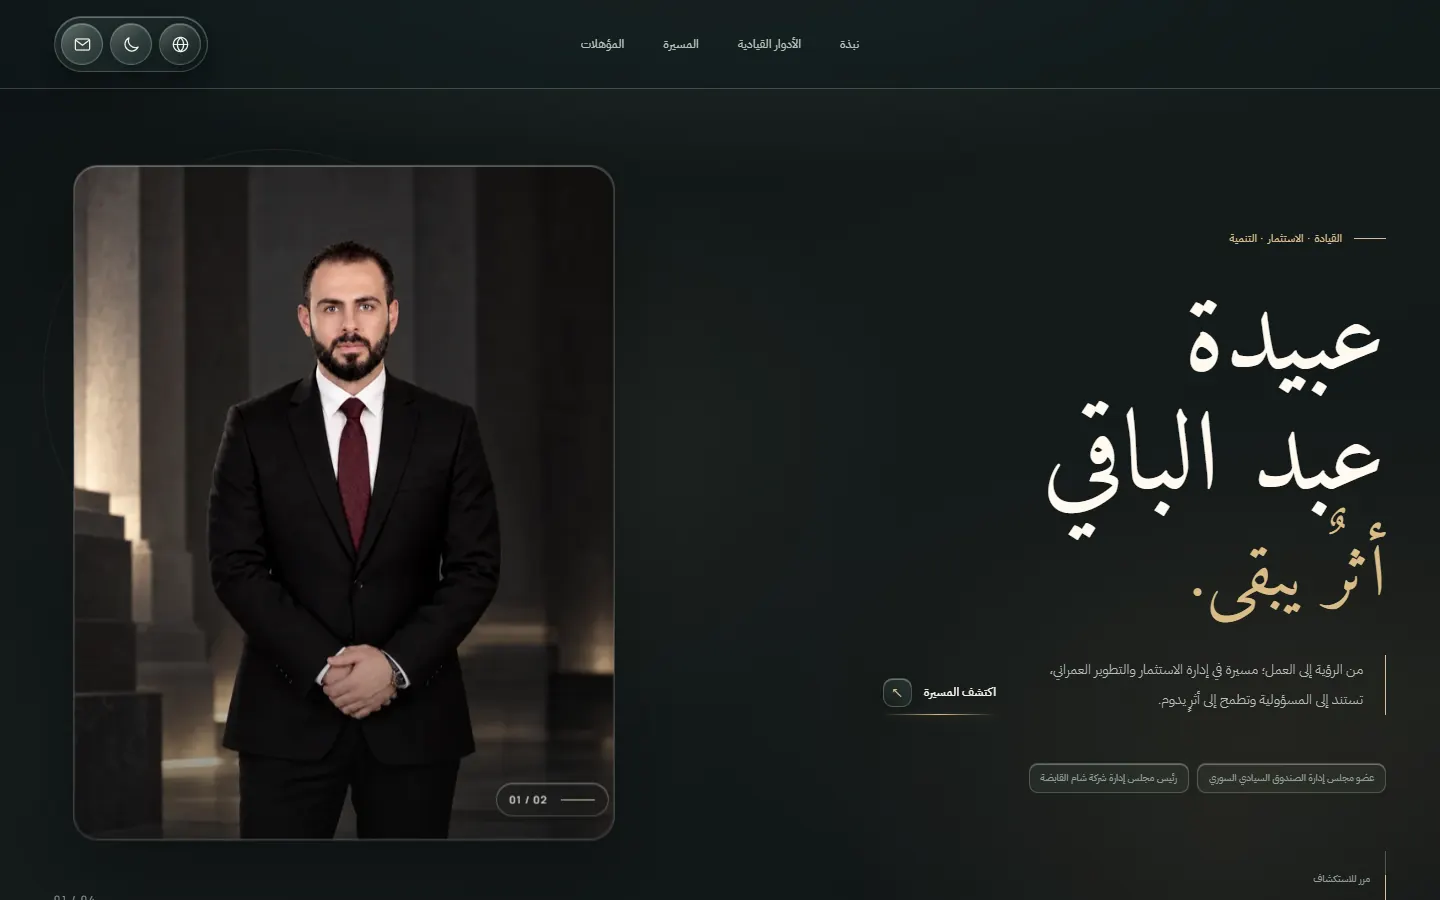
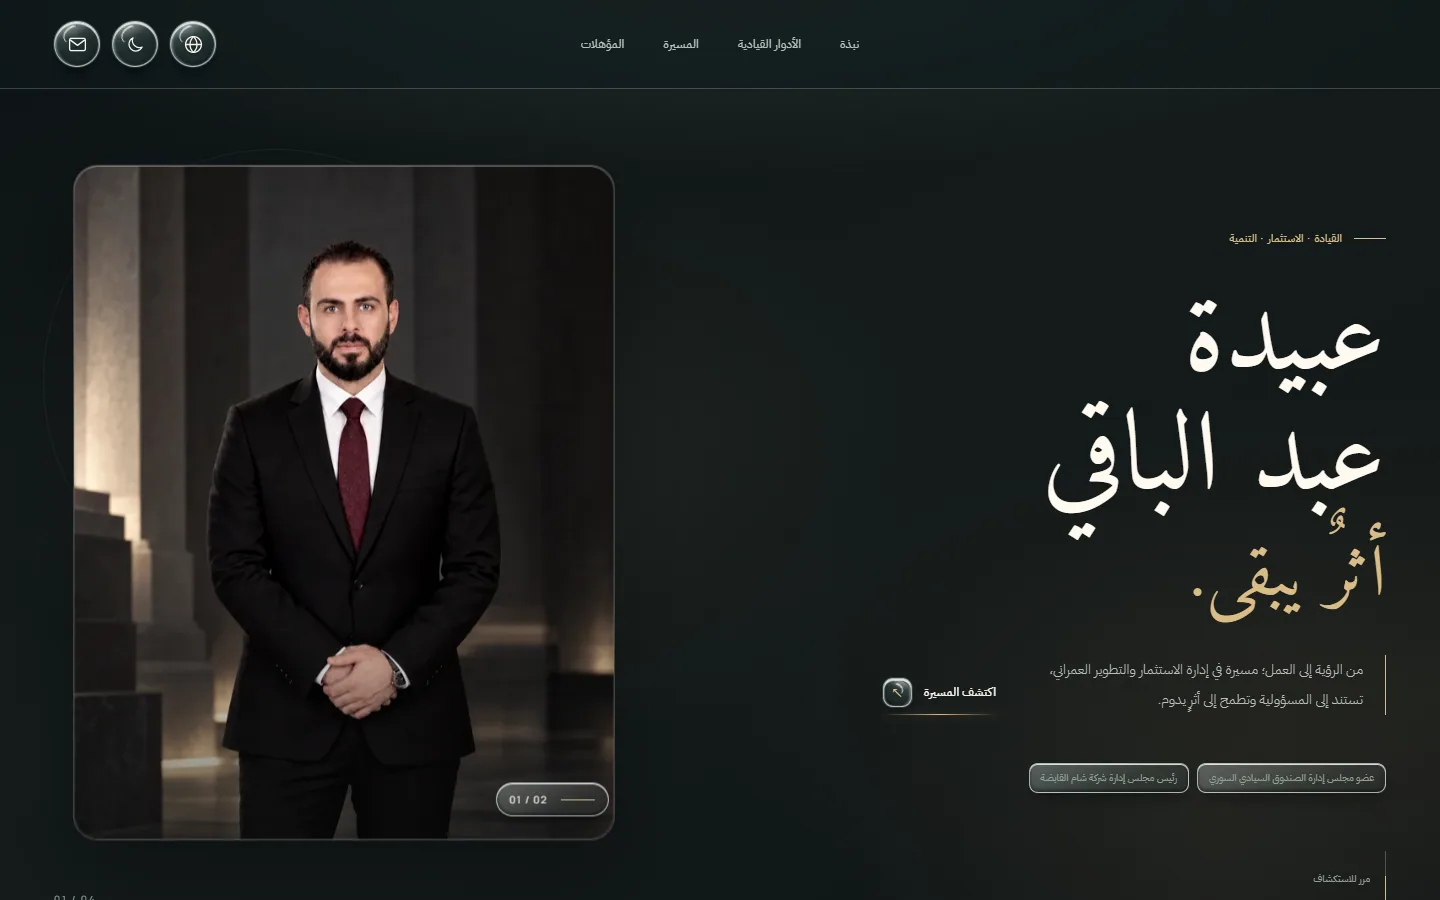
Polish liquid glass controls across site

diff --git a/styles.css b/styles.css
@@ -348,8 +348,8 @@ html[lang="en"] .contact-title em{font-style:italic}
 
 /* Continuous atmosphere and glass surfaces */
 @font-face{font-family:Amiri;src:url("assets/fonts/amiri-arabic-400.woff2") format("woff2");font-style:normal;font-weight:400;font-display:swap}
-:root[data-theme="dark"]{--bg:#0d1214;--bg-elevated:transparent;--bg-soft:transparent;--card:transparent;--card-hover:transparent;--ink:#f5f2e9;--ink-strong:#fffaf1;--muted:#b7bfba;--muted-soft:#91a09a;--gold:#d9bc87;--gold-soft:#f2d8a1;--line:rgba(224,238,232,.16);--line-strong:rgba(224,238,232,.26);--header-glass:rgba(16,23,24,.55);--glass-base:rgba(222,241,232,.055);--glass-strong:rgba(222,241,232,.105);--glass-line:rgba(239,253,246,.2);--glass-bright:rgba(255,255,255,.32);--glass-shadow:rgba(0,0,0,.32)}
-:root[data-theme="light"]{--bg:#efeee9;--bg-elevated:transparent;--bg-soft:transparent;--card:transparent;--card-hover:transparent;--ink:#1b2423;--ink-strong:#0e1716;--muted:#586663;--muted-soft:#70817b;--gold:#876a46;--gold-soft:#ad8b5e;--line:rgba(28,52,47,.14);--line-strong:rgba(28,52,47,.23);--header-glass:rgba(238,242,237,.58);--glass-base:rgba(255,255,255,.42);--glass-strong:rgba(255,255,255,.67);--glass-line:rgba(255,255,255,.78);--glass-bright:rgba(255,255,255,.93);--glass-shadow:rgba(56,70,63,.13)}
+:root[data-theme="dark"]{--bg:#0d1214;--bg-elevated:transparent;--bg-soft:transparent;--card:transparent;--card-hover:transparent;--ink:#f5f2e9;--ink-strong:#fffaf1;--muted:#b7bfba;--muted-soft:#91a09a;--gold:#d9bc87;--gold-soft:#f2d8a1;--line:rgba(224,238,232,.16);--line-strong:rgba(224,238,232,.26);--header-glass:rgba(16,23,24,.55);--glass-base:rgba(222,241,232,.055);--glass-strong:rgba(222,241,232,.105);--glass-line:rgba(239,253,246,.2);--glass-bright:rgba(255,255,255,.32);--glass-shadow:rgba(0,0,0,.32);--liquid-top:rgba(237,251,249,.3);--liquid-base:rgba(192,217,219,.11);--liquid-bottom:rgba(124,152,158,.1);--liquid-rim:rgba(245,255,252,.62);--liquid-glint:rgba(255,255,255,.82);--liquid-edge:rgba(255,255,255,.28);--liquid-inset:rgba(2,10,12,.55);--liquid-outline:rgba(230,247,246,.14);--liquid-shadow:rgba(0,0,0,.58);--liquid-panel-glow:rgba(229,249,246,.13)}
+:root[data-theme="light"]{--bg:#efeee9;--bg-elevated:transparent;--bg-soft:transparent;--card:transparent;--card-hover:transparent;--ink:#1b2423;--ink-strong:#0e1716;--muted:#586663;--muted-soft:#70817b;--gold:#876a46;--gold-soft:#ad8b5e;--line:rgba(28,52,47,.14);--line-strong:rgba(28,52,47,.23);--header-glass:rgba(238,242,237,.58);--glass-base:rgba(255,255,255,.42);--glass-strong:rgba(255,255,255,.67);--glass-line:rgba(255,255,255,.78);--glass-bright:rgba(255,255,255,.93);--glass-shadow:rgba(56,70,63,.13);--liquid-top:rgba(255,255,255,.84);--liquid-base:rgba(226,235,238,.53);--liquid-bottom:rgba(179,194,199,.29);--liquid-rim:rgba(255,255,255,.98);--liquid-glint:#fff;--liquid-edge:rgba(255,255,255,.9);--liquid-inset:rgba(91,112,117,.3);--liquid-outline:rgba(77,97,103,.27);--liquid-shadow:rgba(56,73,77,.32);--liquid-panel-glow:rgba(255,255,255,.55)}
 body{background:var(--bg)}
 body::before,body::after{content:"";position:fixed;inset:0;z-index:0;pointer-events:none}
 body::before{background:radial-gradient(ellipse 75% 36% at 48% -9%,#293434 0%,transparent 80%),radial-gradient(ellipse 65% 43% at 100% 77%,rgba(139,111,68,.105),transparent 80%),linear-gradient(155deg,#0d1214 0%,#141b1b 48%,#101516 100%)}
@@ -363,7 +363,7 @@ body::after{background:radial-gradient(ellipse 75% 38% at 48% -9%,#fffef7 0%,tra
 .section-topline .topline-rule{background:linear-gradient(90deg,var(--line),transparent)}
 html[dir="rtl"] .section-topline .topline-rule{background:linear-gradient(-90deg,var(--line),transparent)}
 
-/* Header: symbols only, with a real frosted dock */
+/* Header: separate liquid-glass controls */
 .site-header{background:var(--header-glass);border-bottom:1px solid var(--glass-line);backdrop-filter:blur(26px) saturate(175%);-webkit-backdrop-filter:blur(26px) saturate(175%)}
 .site-header.scrolled,.site-header.menu-open{background:var(--header-glass);border-bottom-color:var(--glass-line);box-shadow:0 18px 50px var(--glass-shadow)}
 .header-inner{display:grid;grid-template-columns:1fr auto 1fr;min-height:88px}
@@ -374,11 +374,11 @@ html[dir="rtl"] .section-topline .topline-rule{background:linear-gradient(-90deg
 .desktop-nav a::after{left:50%;inset-inline-start:auto;bottom:1px;width:115%;height:2px;transform:translateX(-50%) scaleX(0);transform-origin:center;background:linear-gradient(90deg,transparent 0%,var(--gold-soft) 23%,#fff6d9 50%,var(--gold-soft) 77%,transparent 100%);box-shadow:0 0 6px var(--gold),0 0 18px rgba(236,202,136,.7),0 0 34px rgba(236,202,136,.35);border-radius:5px}
 .desktop-nav a:hover::before,.desktop-nav a.active::before{opacity:1;transform:translateX(-50%) scale(1)}
 .desktop-nav a:hover::after,.desktop-nav a.active::after{transform:translateX(-50%) scaleX(1)}
-.header-actions{justify-self:end;display:flex;align-items:center;gap:7px;padding:6px;border-radius:999px;background:linear-gradient(135deg,var(--glass-strong),var(--glass-base) 55%,transparent);border:1px solid var(--glass-line);box-shadow:inset 0 1px 0 var(--glass-bright),0 15px 35px var(--glass-shadow);backdrop-filter:blur(24px) saturate(190%);-webkit-backdrop-filter:blur(24px) saturate(190%)}
-.utility-button,.header-contact,.menu-button{position:relative;flex:none;width:42px;height:42px;min-height:0;display:grid;place-items:center;border-radius:50%;padding:0;background:linear-gradient(145deg,var(--glass-strong),var(--glass-base) 56%,transparent);border:1px solid var(--glass-line);color:var(--ink);box-shadow:inset 0 1px 0 var(--glass-bright),inset 0 -1px 0 rgba(255,255,255,.07),0 4px 14px var(--glass-shadow);backdrop-filter:blur(18px) saturate(185%);-webkit-backdrop-filter:blur(18px) saturate(185%);transition:transform .35s,box-shadow .35s,background .35s,color .35s}
-.utility-button::before,.header-contact::before,.menu-button::before,.glass-icon::before{content:"";position:absolute;inset:1px;border-radius:inherit;background:linear-gradient(145deg,rgba(255,255,255,.28),transparent 48%);opacity:.55;pointer-events:none}
-.utility-button:hover,.header-contact:hover,.menu-button:hover{transform:translateY(-3px);background:linear-gradient(145deg,rgba(251,232,189,.36),var(--glass-strong));border-color:var(--gold);color:var(--ink);box-shadow:inset 0 1px 0 rgba(255,255,255,.65),0 8px 26px rgba(194,161,105,.25)}
-.utility-button svg,.header-contact svg{width:19px;height:19px;position:relative;z-index:1}
+.header-actions{justify-self:end;display:flex;align-items:center;gap:12px;padding:0;border:0;background:none;box-shadow:none;backdrop-filter:none;-webkit-backdrop-filter:none}
+.utility-button,.header-contact,.menu-button{position:relative;isolation:isolate;flex:none;width:46px;height:46px;min-height:0;display:grid;place-items:center;border-radius:50%;padding:0;color:var(--ink);cursor:pointer;transition:transform .35s ease,box-shadow .35s ease,color .35s ease}
+.utility-button:hover,.header-contact:hover,.menu-button:hover{transform:translateY(-4px) scale(1.055);color:var(--ink);box-shadow:inset 0 2px 1px var(--liquid-glint),inset 2px 0 2px var(--liquid-edge),inset 0 -3px 5px var(--liquid-inset),0 0 0 1px var(--liquid-outline),0 13px 18px -6px var(--liquid-shadow),0 0 18px rgba(217,188,135,.24)}
+.utility-button:active,.header-contact:active,.menu-button:active{transform:translateY(1px) scale(.96)}
+.utility-button svg,.header-contact svg{width:21px;height:21px;position:relative;z-index:2;filter:drop-shadow(0 1px 1px rgba(0,0,0,.18))}
 .theme-button svg{width:19px;height:19px}
 .header-contact{gap:0}
 .menu-button{display:none}
@@ -405,7 +405,33 @@ html[lang="ar"] .card-content h3{font-size:clamp(39px,4.2vw,66px);line-height:1.
 .hero-meta{gap:8px}
 .hero-meta>span:not(.meta-divider){display:inline-flex;align-items:center;min-height:30px;padding:7px 11px;border:1px solid var(--glass-line);border-radius:9px;background:var(--glass-base);backdrop-filter:blur(17px) saturate(170%);-webkit-backdrop-filter:blur(17px) saturate(170%);box-shadow:inset 0 1px 0 var(--glass-bright)}
 .hero-meta .meta-divider{display:none}
-.glass-icon,.link-arrow,.journey-glyph,.expertise-star,.footer-arrow{position:relative;display:grid;place-items:center;flex:none;background:linear-gradient(145deg,var(--glass-strong),var(--glass-base) 65%,transparent);border:1px solid var(--glass-line);box-shadow:inset 0 1px 0 var(--glass-bright),0 7px 22px var(--glass-shadow);backdrop-filter:blur(17px) saturate(180%);-webkit-backdrop-filter:blur(17px) saturate(180%);color:var(--gold);overflow:hidden}
+.glass-icon,.link-arrow,.journey-glyph,.expertise-star,.footer-arrow{position:relative;isolation:isolate;display:grid;place-items:center;flex:none;color:var(--gold);overflow:hidden}
+/* A raised, refractive lens: translucent body, bright rim, lower bevel, and a curved glint. */
+:is(.utility-button,.header-contact,.menu-button,.glass-icon,.link-arrow,.journey-glyph,.expertise-star,.footer-arrow,.statement-symbol,.journey-index,.about-small-note .note-symbol,.contact-email span:last-child){
+  position:relative;isolation:isolate;overflow:hidden;
+  background:radial-gradient(ellipse 95% 75% at 50% 118%,var(--liquid-bottom),transparent 72%),linear-gradient(155deg,var(--liquid-top),var(--liquid-base) 55%,var(--liquid-bottom));
+  border:1px solid var(--liquid-rim);
+  box-shadow:inset 0 2px 1px var(--liquid-glint),inset 2px 0 2px var(--liquid-edge),inset -1px 0 1px var(--liquid-edge),inset 0 -3px 5px var(--liquid-inset),0 0 0 1px var(--liquid-outline),0 9px 14px -6px var(--liquid-shadow),0 18px 22px -15px var(--liquid-shadow);
+  backdrop-filter:blur(17px) saturate(175%) contrast(1.05);
+  -webkit-backdrop-filter:blur(17px) saturate(175%) contrast(1.05);
+}
+:is(.utility-button,.header-contact,.menu-button,.glass-icon,.link-arrow,.journey-glyph,.expertise-star,.footer-arrow,.statement-symbol,.journey-index,.about-small-note .note-symbol,.contact-email span:last-child)::before{
+  content:"";position:absolute;inset:2px;border-radius:inherit;pointer-events:none;z-index:0;
+  background:radial-gradient(ellipse 110% 75% at 12% -15%,var(--liquid-glint),transparent 70%);
+  opacity:.78;
+}
+:is(.utility-button,.header-contact,.menu-button,.glass-icon,.link-arrow,.journey-glyph,.expertise-star,.footer-arrow,.statement-symbol,.journey-index,.about-small-note .note-symbol,.contact-email span:last-child)::after{
+  content:"";position:absolute;top:5px;left:7px;width:35%;height:24%;z-index:0;pointer-events:none;
+  border-top:2px solid var(--liquid-glint);border-left:1px solid var(--liquid-glint);
+  border-radius:100% 30% 15% 20%;transform:rotate(-24deg);filter:blur(.25px);opacity:.85;
+}
+button.utility-button:hover,a.header-contact:hover,button.menu-button:hover{
+  background:radial-gradient(ellipse 95% 75% at 50% 118%,var(--liquid-bottom),transparent 72%),linear-gradient(155deg,var(--liquid-glint),var(--liquid-base) 62%,var(--liquid-bottom));
+  box-shadow:inset 0 2px 1px var(--liquid-glint),inset 2px 0 2px var(--liquid-edge),inset 0 -3px 5px var(--liquid-inset),0 0 0 1px var(--liquid-outline),0 13px 18px -6px var(--liquid-shadow),0 0 18px rgba(217,188,135,.24);
+}
+.glass-icon svg{position:relative;z-index:2}
+.menu-button span{z-index:2}
+.portrait-index,.hero-meta>span:not(.meta-divider){background:linear-gradient(155deg,var(--liquid-top),var(--liquid-base) 65%,var(--liquid-bottom));border-color:var(--liquid-rim);box-shadow:inset 0 1px 0 var(--liquid-glint),inset 0 -2px 4px var(--liquid-inset),0 8px 18px -8px var(--liquid-shadow)}
 .link-arrow{width:29px;height:29px;border-radius:10px;font-size:16px}
 .text-link{border-bottom:0;gap:12px}
 .text-link::after{content:"";position:absolute;bottom:0;inset-inline-start:0;width:100%;height:1px;background:linear-gradient(90deg,transparent,var(--gold),transparent);box-shadow:0 0 8px rgba(224,185,118,.4)}
@@ -475,10 +501,18 @@ html[lang="en"] .card-content h3{font-size:clamp(42px,4.3vw,67px)}
 .contact-title{color:var(--ink-strong)}
 .contact-title em{color:var(--gold)}
 .contact-bottom p,.contact-extra{color:var(--muted)}
-.contact-email span:last-child{width:45px;height:45px;display:grid;place-items:center;border-radius:14px;border:1px solid var(--glass-line);background:var(--glass-strong);box-shadow:inset 0 1px 0 var(--glass-bright);font-size:22px}
+.contact-email span:last-child{width:45px;height:45px;display:grid;place-items:center;border-radius:14px;border:1px solid var(--liquid-rim);background:radial-gradient(ellipse 95% 75% at 50% 118%,var(--liquid-bottom),transparent 72%),linear-gradient(155deg,var(--liquid-top),var(--liquid-base) 55%,var(--liquid-bottom));box-shadow:inset 0 2px 1px var(--liquid-glint),inset 0 -3px 5px var(--liquid-inset),0 0 0 1px var(--liquid-outline),0 9px 14px -6px var(--liquid-shadow);font-size:22px}
 .site-footer{border-top:0}
 .footer-inner{border-top:1px solid var(--line);color:var(--muted)}
 .footer-arrow{width:32px;height:32px;border-radius:10px;font-size:18px}
+
+/* Carry the same polished material through the larger surfaces. */
+:is(.leadership-card,.statement-inner,.journey-item,.expertise-item,.contact-inner){
+  background:radial-gradient(ellipse 83% 80% at 5% -28%,var(--liquid-panel-glow),transparent 83%),linear-gradient(128deg,var(--glass-strong),var(--glass-base) 54%,transparent);
+  box-shadow:inset 0 2px 1px var(--glass-bright),inset 0 0 0 1px var(--liquid-outline),inset 0 -2px 4px var(--liquid-inset),0 20px 55px -12px var(--glass-shadow);
+}
+.about-copy-glass{box-shadow:inset 0 2px 1px rgba(255,255,255,.46),inset 0 0 0 1px rgba(255,255,255,.1),inset 0 -2px 5px rgba(0,0,0,.3),0 22px 60px rgba(0,0,0,.24)}
+.leadership-card:hover,.journey-item:hover,.expertise-item:hover{box-shadow:inset 0 2px 1px var(--glass-bright),inset 0 0 0 1px var(--liquid-outline),inset 0 -2px 4px var(--liquid-inset),0 25px 65px -12px var(--glass-shadow),0 0 35px rgba(211,173,106,.11)}
 
 @supports not ((backdrop-filter:blur(1px)) or (-webkit-backdrop-filter:blur(1px))){
   .header-actions,.utility-button,.header-contact,.menu-button,.glass-icon,.about-copy-glass,.leadership-card,.statement-inner,.journey-item,.expertise-item,.contact-inner{background:var(--bg)}
@@ -515,8 +549,8 @@ html[lang="en"] .card-content h3{font-size:clamp(42px,4.3vw,67px)}
 }
 @media(max-width:700px){
   .header-inner{min-height:72px}
-  .header-actions{padding:4px;gap:5px}
-  .utility-button,.header-contact,.menu-button{width:36px;height:36px}
+  .header-actions{padding:0;gap:8px}
+  .utility-button,.header-contact,.menu-button{width:39px;height:39px}
   .utility-button svg,.header-contact svg,.theme-button svg{width:17px;height:17px}
   .menu-button span{left:9px;top:12px}
   .menu-button span:last-child{left:13px;top:23px}

diff --git a/index.html b/index.html
@@ -27,7 +27,7 @@
             <a href="#journey" data-i18n="navJourney">المسيرة</a>
             <a href="#expertise" data-i18n="navExpertise">المؤهلات</a>
           </nav>
-          <div class="header-actions glass-dock">
+          <div class="header-actions">
             <button class="utility-button lang-button" id="language-toggle" type="button" aria-label="Switch to English"><svg viewBox="0 0 24 24" fill="none" stroke="currentColor" stroke-width="1.55" stroke-linecap="round" stroke-linejoin="round" aria-hidden="true"><circle cx="12" cy="12" r="9"/><path d="M3 12h18M12 3c2.6 2.5 4 5.5 4 9s-1.4 6.5-4 9c-2.6-2.5-4-5.5-4-9s1.4-6.5 4-9Z"/></svg></button>
             <button class="utility-button theme-button" id="theme-toggle" type="button" aria-label="تفعيل الوضع الفاتح">
               <svg class="moon-icon" viewBox="0 0 24 24" fill="none" stroke="currentColor" stroke-width="1.5" stroke-linecap="round" stroke-linejoin="round" aria-hidden="true"><path d="M20.4 15.1A8.7 8.7 0 0 1 8.9 3.6 8.7 8.7 0 1 0 20.4 15.1Z" /></svg>
